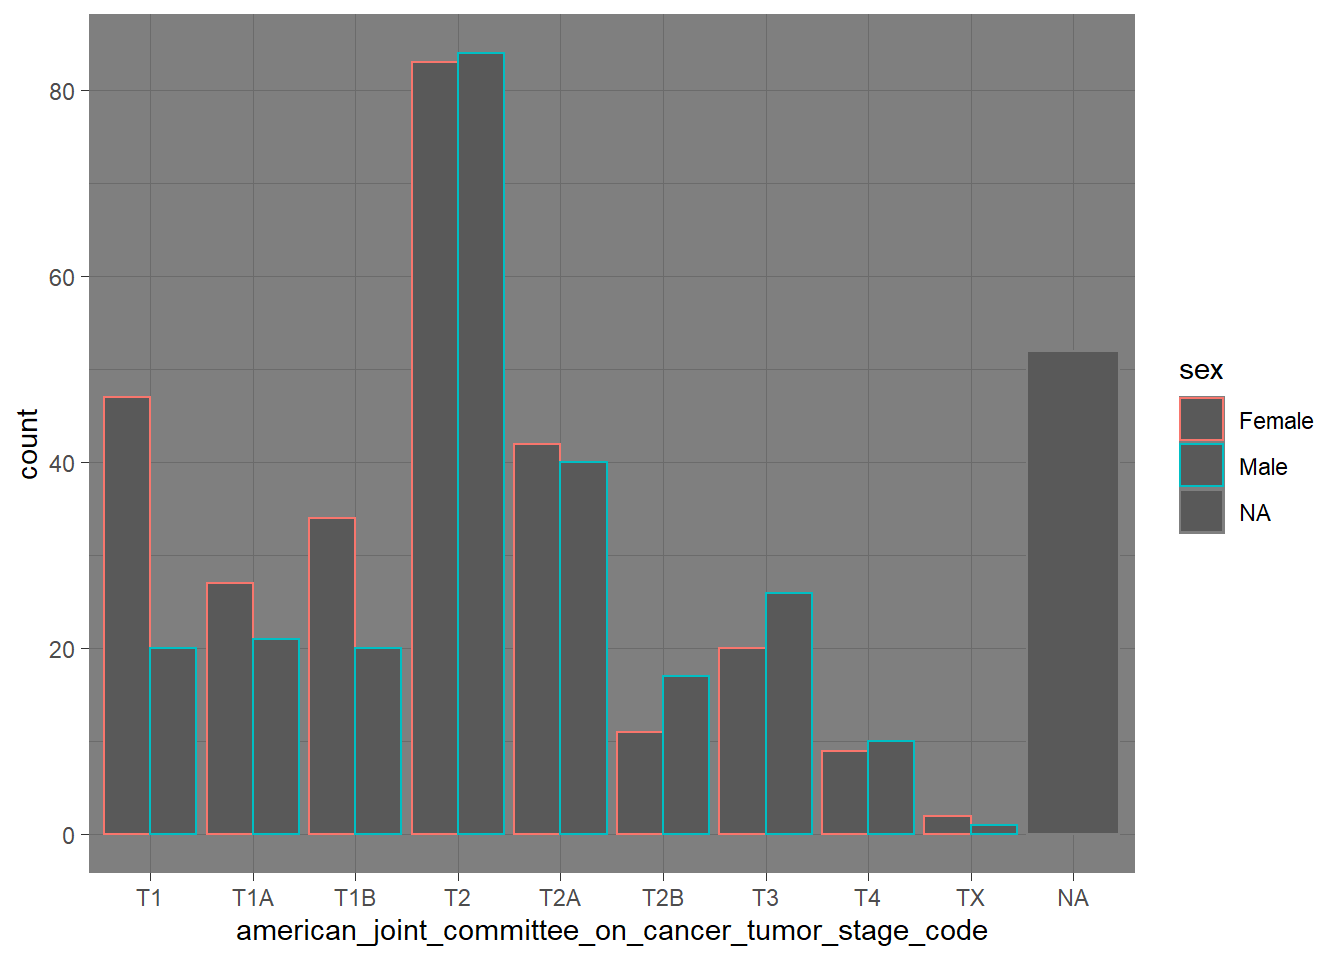
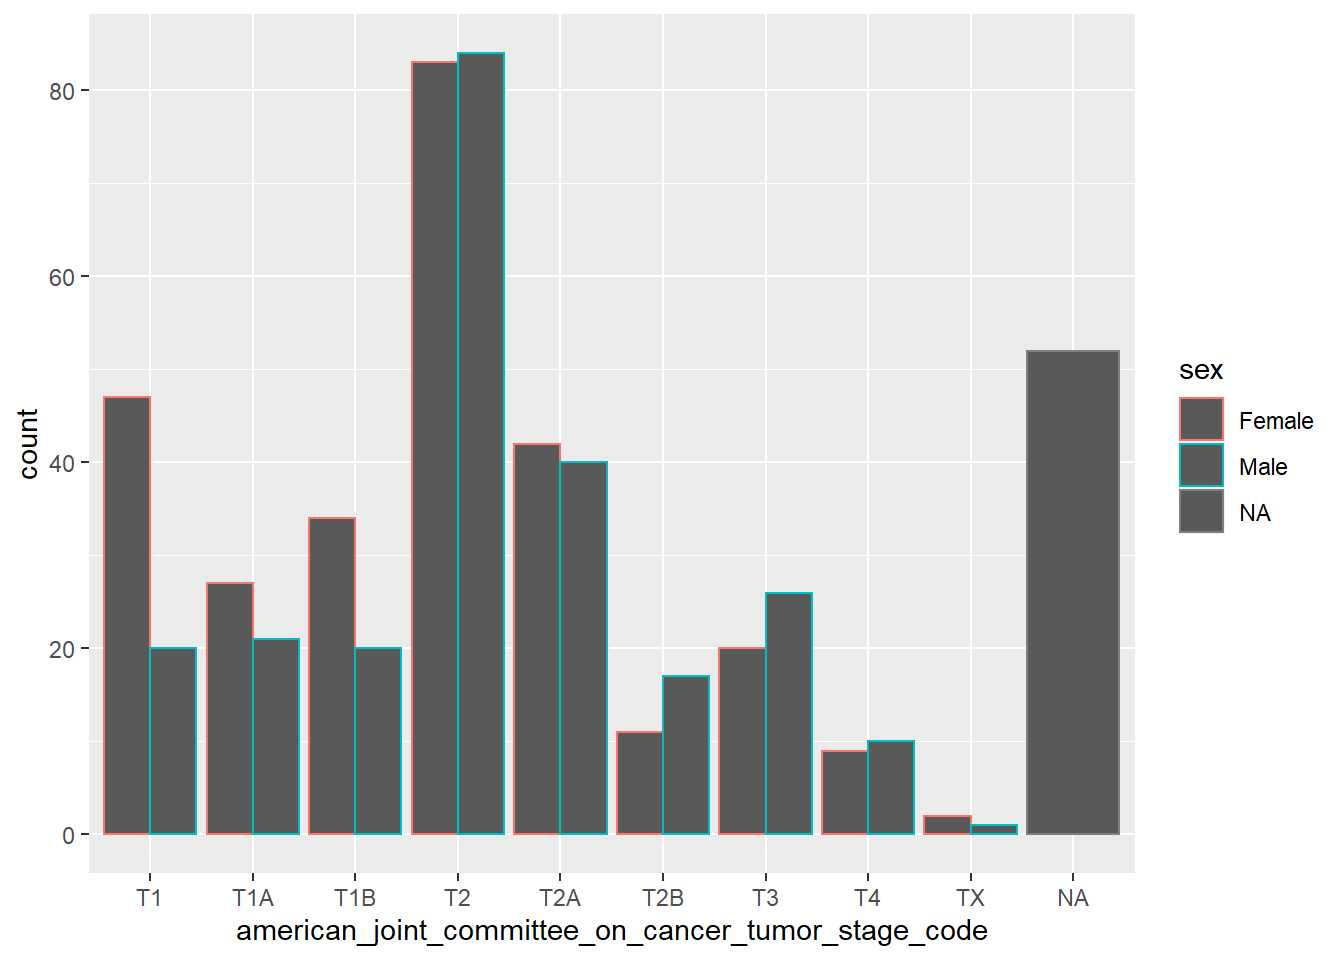
Build site.

diff --git a/docs/test.html b/docs/test.html
@@ -496,16 +496,16 @@ This reproducible <a href="http://rmarkdown.rstudio.com">R Markdown</a> analysis
 <div class="panel panel-default">
 <div class="panel-heading">
 <p class="panel-title">
-<a data-toggle="collapse" data-parent="#workflowr-checks" href="#strongRepositoryversionstrongahrefhttpsgithubcomBastianEichmuellertesttree3e5c8bfd1749c3375beef39ad38af836242f2843targetblank3e5c8bfa"> <span class="glyphicon glyphicon-ok text-success" aria-hidden="true"></span> <strong>Repository version:</strong> <a href="https://github.com/BastianEichmueller/test/tree/3e5c8bfd1749c3375beef39ad38af836242f2843" target="_blank">3e5c8bf</a> </a>
+<a data-toggle="collapse" data-parent="#workflowr-checks" href="#strongRepositoryversionstrongahrefhttpsgithubcomBastianEichmuellertesttree5039faef44fae58039146c967b2440f4c83d7128targetblank5039faea"> <span class="glyphicon glyphicon-ok text-success" aria-hidden="true"></span> <strong>Repository version:</strong> <a href="https://github.com/BastianEichmueller/test/tree/5039faef44fae58039146c967b2440f4c83d7128" target="_blank">5039fae</a> </a>
 </p>
 </div>
[2 lines of base64/hex data omitted]
 <div class="panel-body">
 <p>
 Great! You are using Git for version control. Tracking code development and connecting the code version to the results is critical for reproducibility.
 </p>
 <p>
-The results in this page were generated with repository version <a href="https://github.com/BastianEichmueller/test/tree/3e5c8bfd1749c3375beef39ad38af836242f2843" target="_blank">3e5c8bf</a>. See the <em>Past versions</em> tab to see a history of the changes made to the R Markdown and HTML files.
+The results in this page were generated with repository version <a href="https://github.com/BastianEichmueller/test/tree/5039faef44fae58039146c967b2440f4c83d7128" target="_blank">5039fae</a>. See the <em>Past versions</em> tab to see a history of the changes made to the R Markdown and HTML files.
 </p>
 <p>
 Note that you need to be careful to ensure that all relevant files for the analysis have been committed to Git prior to generating the results (you can use <code>wflow_publish</code> or <code>wflow_git_commit</code>). workflowr only checks the R Markdown file, but you know if there are other scripts or data files that it depends on. Below is the status of the Git repository when the results were generated:
@@ -554,6 +554,40 @@ Message
 </tr>
 </thead>
 <tbody>
+<tr>
+<td>
+Rmd
+</td>
+<td>
+<a href="https://github.com/BastianEichmueller/test/blob/5039faef44fae58039146c967b2440f4c83d7128/analysis/test.Rmd" target="_blank">5039fae</a>
+</td>
+<td>
+BastianEichmueller
+</td>
+<td>
+2021-02-19
+</td>
+<td>
+wflow_publish(files = &quot;analysis/test.Rmd&quot;)
+</td>
+</tr>
+<tr>
+<td>
+html
+</td>
+<td>
+<a href="https://rawcdn.githack.com/BastianEichmueller/test/e85930462c17607e3a9452eec8a31a4354031334/docs/test.html" target="_blank">e859304</a>
+</td>
+<td>
+BastianEichmueller
+</td>
+<td>
+2021-02-19
+</td>
+<td>
+Build site.
+</td>
+</tr>
 <tr>
 <td>
 html
@@ -815,8 +849,7 @@ race_category                       T1 T1A T1B  T2 T2A T2B  T3  T4  TX
   White                             52  41  46 111  66  25  33  12   2</code></pre>
 <pre class="r"><code>d %&gt;% 
   ggplot(aes(x=american_joint_committee_on_cancer_tumor_stage_code, col=sex))+
-  geom_bar(position = &quot;dodge&quot;)+
-  theme_dark()</code></pre>
+  geom_bar(position = &quot;dodge&quot;)</code></pre>
 <p><img src="figure/test.Rmd/unnamed-chunk-6-1.png" width="672" style="display: block; margin: auto;" /></p>
 <pre class="r"><code>with(d,
      chisq.test(sex, american_joint_committee_on_cancer_tumor_stage_code)
